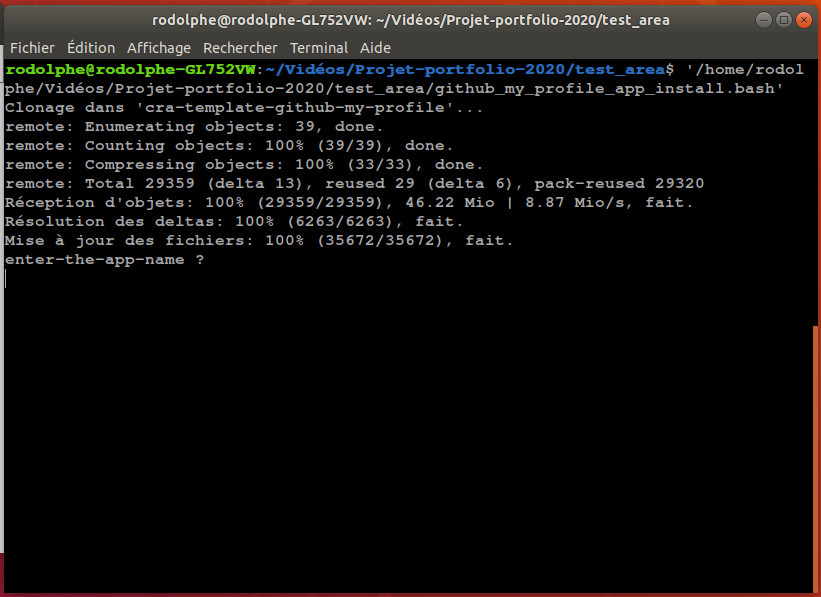
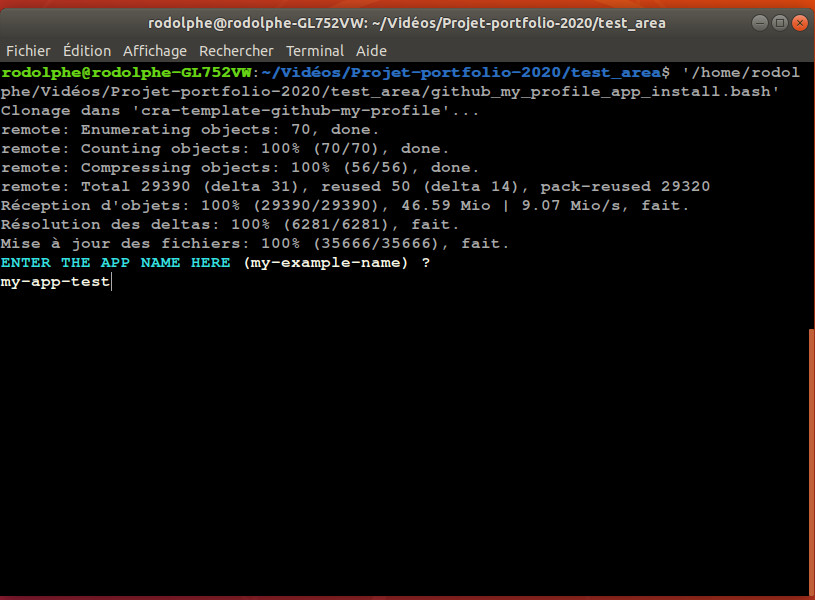
add script installation

Changed region(s): [[0.0, 0.0, 1.0, 0.995]]

diff --git a/README.md b/README.md
@@ -24,7 +24,8 @@ then press Enter key to continue installation
 
 <a id="raw-url" href="https://github.com/rodolphe37/cra-template-github-my-profile/blob/master/script_install/github_my_profile_app_install.zip?raw=true">👉 Download the zip file here 👈</a>
 
-![!install-step1](demo/install-script1.jpg)
+![!install-step1](demo/install-script1.1.jpg)
+![!install-step1b](demo/install-script1.jpg)
 ![!install-step2](demo/install-script2.jpg)
 ![!install-step3](demo/install-script3.jpg)
 
